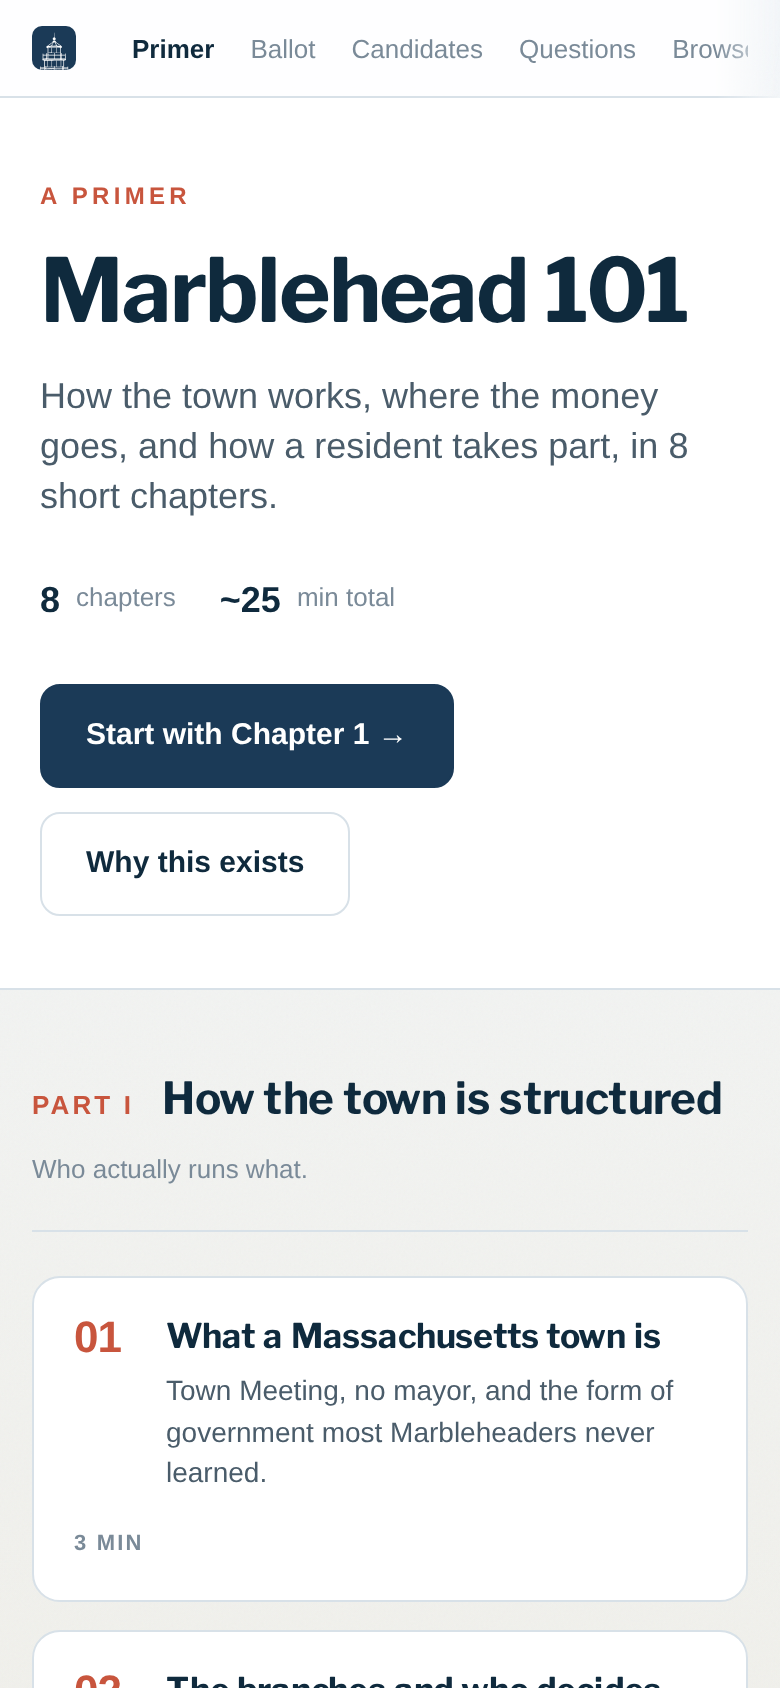
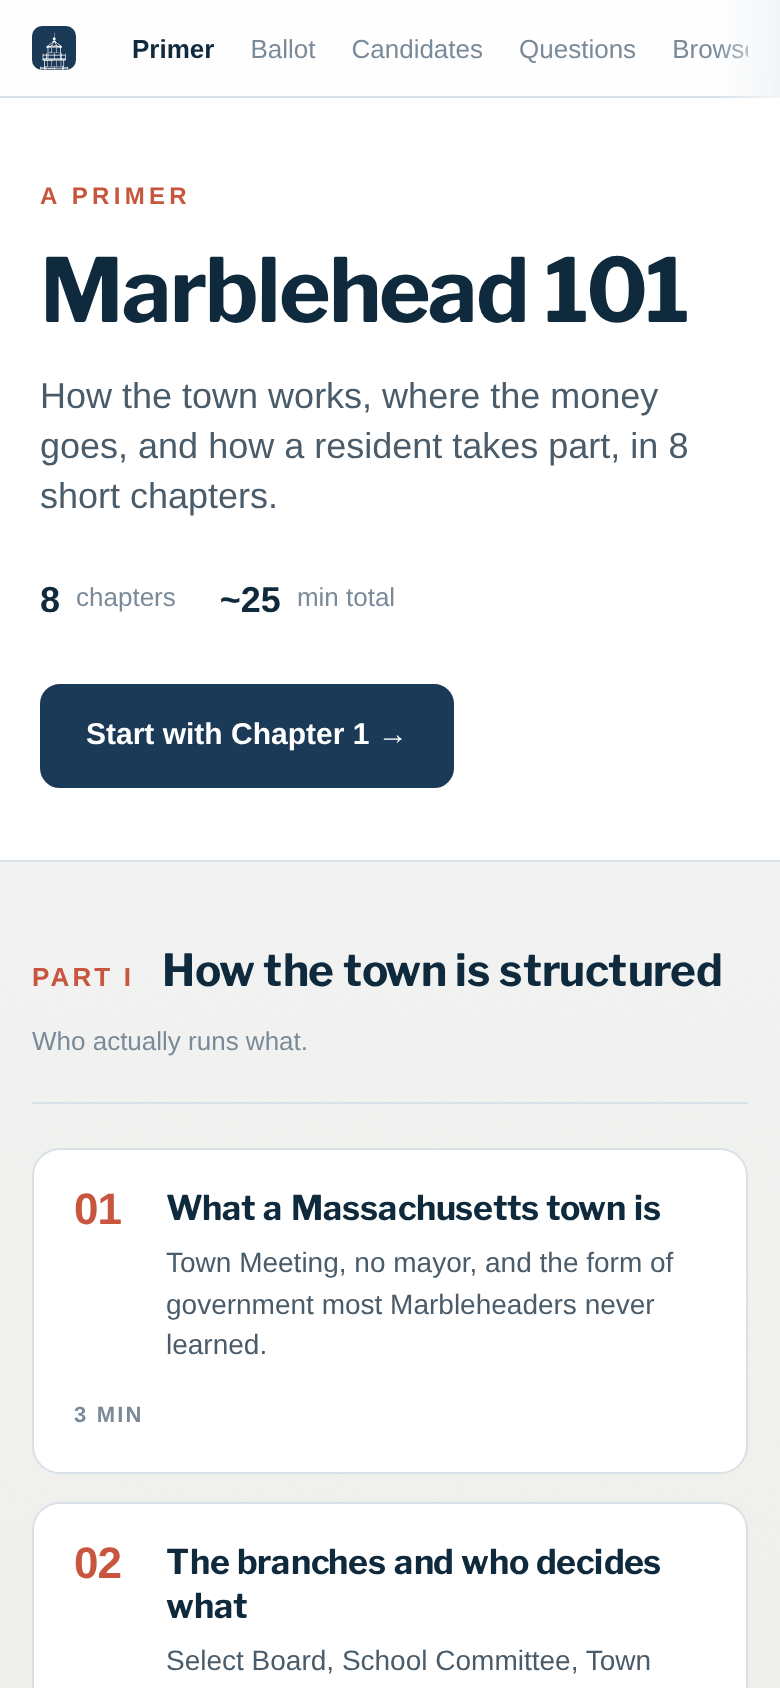
Marblehead 101: tighten landing copy (drop meta-narration + Why CTA, neutral timeless framing) + updated screenshots

diff --git a/marblehead-101/index.html b/marblehead-101/index.html
@@ -21,7 +21,6 @@ og_url: https://marbleheaddata.org/marblehead-101/
     <div class="actions">
       {%- assign first = site.data.marblehead_101.chapters | first -%}
       <a class="m101-btn primary" href="{{ first.slug }}.html">Start with Chapter 1 &rarr;</a>
-      <a class="m101-btn secondary" href="#why">Why this exists</a>
     </div>
   </div>
 </header>
@@ -54,9 +53,8 @@ og_url: https://marbleheaddata.org/marblehead-101/
   </div>
   {%- endfor -%}
 
-  <section id="why" class="m101-why">
-    <h2>Why this exists</h2>
-    <p>marbleheaddata.org publishes deep pages on each piece of town government and the FY27 override debate. A first-time resident has no single starting path through them. Marblehead 101 is that path: a guided ~25-minute read with exit ramps to the detailed pages. The site does not take a position on the override; this primer does not either.</p>
+  <section class="m101-why">
+    <p>Every number traces to a primary source. This primer doesn't recommend a position on any ballot question; the goal is plain-English understanding of how the town works.</p>
   </section>
 </section>
 

diff --git a/assets/m101.css b/assets/m101.css
@@ -470,12 +470,9 @@ body.m101-drawer-open .m101-drawer { transform: translateY(0); }
 }
 
 .m101-why {
-  margin-top: 64px;
-  padding: 24px;
-  background: var(--surface);
-  border-radius: 14px;
-  border: 1px solid var(--border);
+  margin-top: 48px;
+  padding-top: 24px;
+  border-top: 1px solid var(--border);
   max-width: 760px;
 }
-.m101-why h2 { margin: 0 0 12px; font-size: 22px; }
-.m101-why p { margin: 0; color: var(--text-muted); line-height: 1.6; }
+.m101-why p { margin: 0; color: var(--text-subtle); font-size: 14px; line-height: 1.6; }
